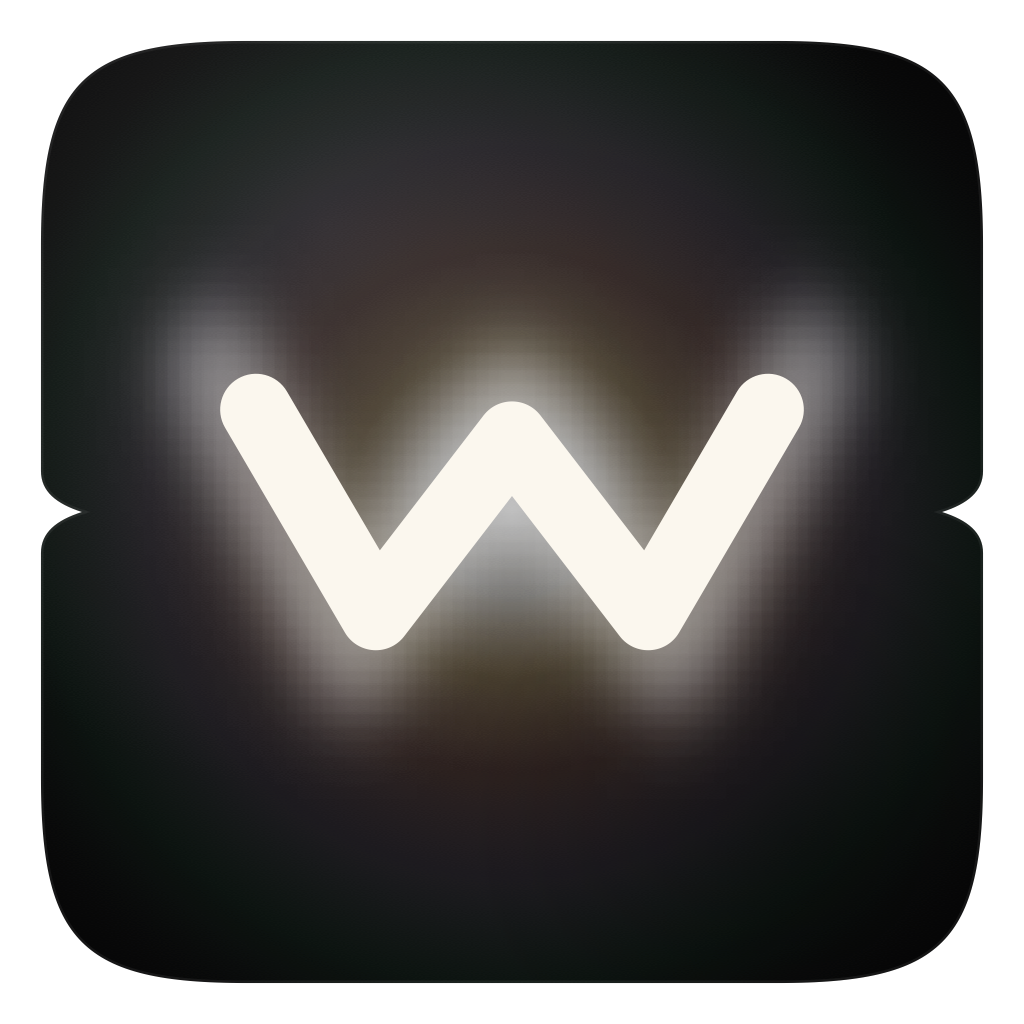
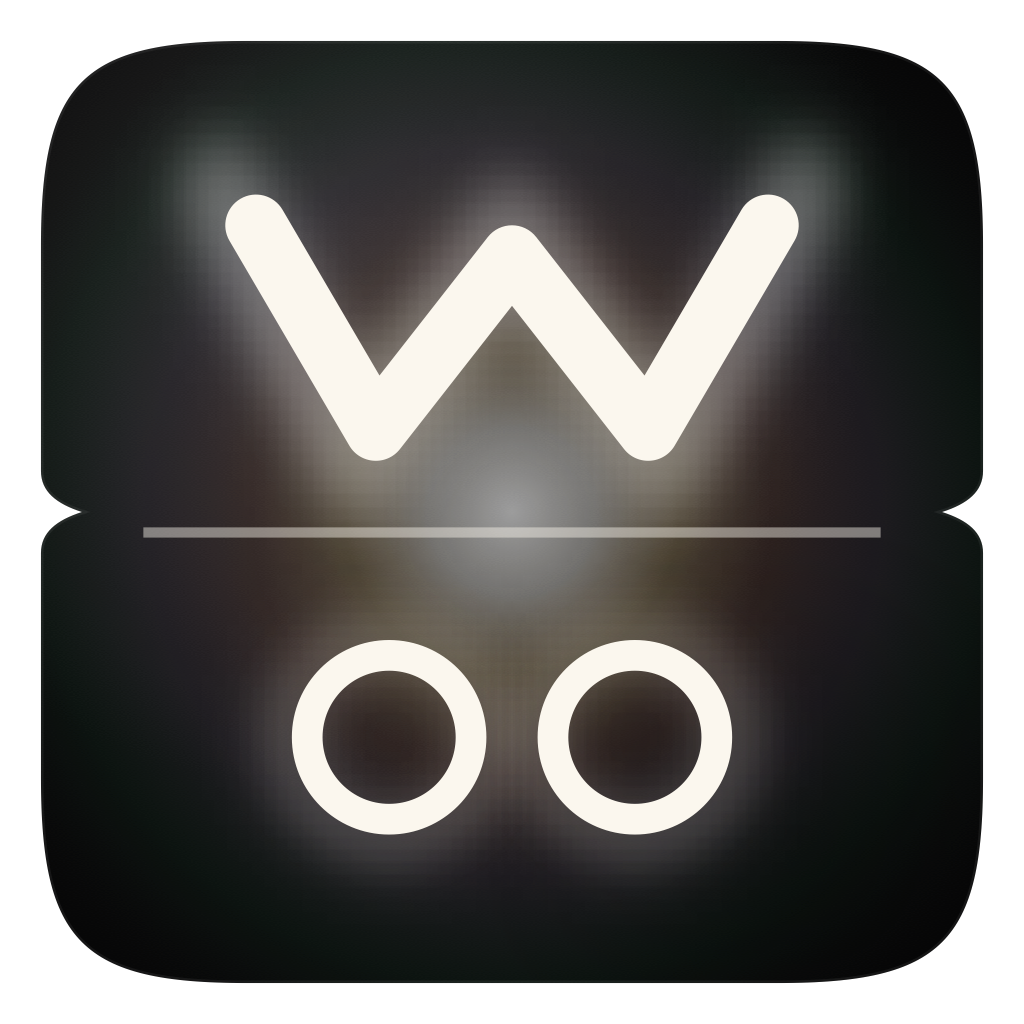
brand: W+oo combined monogram + drop rainbow text effect
Two big changes per user direction:

1. Rainbow gradient on italic em accents removed entirely. The
   gradient wasn't reading visually, made the cut-edge perception
   worse, and the user explicitly said "drop that for now and just
   use the different font". Italic em accents now render in Syne
   italic at the parent heading colour — simpler, cleaner, lets the
   type system carry the brand voice without the loud spectrum.
   Trending-head em colour explicitly set cream (was relying on
   gradient transparency). Services CTA "Work with us" rule cleaned
   up to render in ink, not transparent fill.
   The spectrum lives now only on:
     - Footer hairline (quiet brand signature)
     - Nav active/hover underline (interaction accent)

2. Monogram redesigned as a W+oo combined glyph echoing the
   wordmark's structure:
     - W in the upper half (same letterform geometry as wordmark)
     - Horizon hairline through the middle (the H reference)
     - Two outlined o's in the lower half (the *oo* in WoHoo)
   Reads as a miniature WildWooHoo — same brand letterforms, one
   square mark. Updated:
     - brand-kit/logos/monogram-glow.svg (source of truth)
     - brand-effects.js inline buildMonogram (header live render)
     - favicon.svg / favicon.ico / favicon-16 / favicon-32 / apple-touch
     - brand-kit/logos/png/monogram-glow-* (6 sizes regenerated)
     - brand-kit/social/profile-glow-* (3 sizes regenerated)
   At 32x32 favicon the W+oo composition still reads clearly.
[…]

Changed region(s): [[0.125, 0.125, 0.875, 0.8438]]

diff --git a/brand-effects.js b/brand-effects.js
@@ -187,24 +187,29 @@
         '<rect width="100" height="100" fill="url(#' + sh + ')"/>' +
         // Rainbow rim: hidden at rest, fades in on hover.
         '<rect class="wwh-mono-rim" width="100" height="100" fill="url(#' + rm + ')"/>' +
-        // Mirror W (top + reflected M): hidden at rest, briefly ghost-flashes
-        // on hover before fading back.
+        // W+oo combined glyph (May 2026 redesign): W in upper half,
+        // horizon hairline through middle, two oo circles in lower half.
+        // Reads as a miniature WildWooHoo — same letterforms as the
+        // wordmark, condensed into the square mark.
+        '<g class="wwh-mono-final">' +
+          '<path d="M 25 22 L 36.7 42 L 50 25 L 63.3 42 L 75 22" ' +
+            'stroke="#FBF7EE" stroke-width="6" fill="none" stroke-linecap="round" stroke-linejoin="round"/>' +
+          '<circle cx="38" cy="72" r="8" stroke="#FBF7EE" stroke-width="3" fill="none"/>' +
+          '<circle cx="62" cy="72" r="8" stroke="#FBF7EE" stroke-width="3" fill="none"/>' +
+        '</g>' +
+        // Mirror W (upper) + reflected oo (lower): hidden at rest, ghost-
+        // flash on hover for the rainbow-rim animation.
         '<g class="wwh-mono-top">' +
-          '<path d="M 18 24 L 33 50 L 50 28 L 67 50 L 82 24" ' +
-            'stroke="#FBF7EE" stroke-width="7" fill="none" stroke-linecap="round" stroke-linejoin="round"/>' +
+          '<path d="M 25 12 L 36.7 32 L 50 15 L 63.3 32 L 75 12" ' +
+            'stroke="#FBF7EE" stroke-width="6" fill="none" stroke-linecap="round" stroke-linejoin="round"/>' +
         '</g>' +
         '<g class="wwh-mono-bot">' +
-          '<path d="M 18 76 L 33 50 L 50 72 L 67 50 L 82 76" ' +
-            'stroke="#FBF7EE" stroke-width="7" fill="none" stroke-linecap="round" stroke-linejoin="round"/>' +
-        '</g>' +
-        // Single W (the glow icon\'s W): visible at rest, the anchor of the mark.
-        '<g class="wwh-mono-final">' +
-          '<path d="M 25 40 L 36.7 60 L 50 42.7 L 63.3 60 L 75 40" ' +
-            'stroke="#FBF7EE" stroke-width="7" fill="none" stroke-linecap="round" stroke-linejoin="round"/>' +
+          '<circle cx="38" cy="86" r="6" stroke="#FBF7EE" stroke-width="3" fill="none"/>' +
+          '<circle cx="62" cy="86" r="6" stroke="#FBF7EE" stroke-width="3" fill="none"/>' +
         '</g>' +
         // Horizon hairline: subtle cream at rest, switches to rainbow on hover.
-        '<line class="wwh-mono-horizon-cream" x1="14" y1="50" x2="86" y2="50" stroke="#FBF7EE" stroke-width="0.8" stroke-opacity=".25"/>' +
-        '<line class="wwh-mono-horizon-rain"  x1="14" y1="50" x2="86" y2="50" stroke="url(#' + hr + ')" stroke-width="1.6"/>' +
+        '<line class="wwh-mono-horizon-cream" x1="14" y1="52" x2="86" y2="52" stroke="#FBF7EE" stroke-width="1" stroke-opacity=".45"/>' +
+        '<line class="wwh-mono-horizon-rain"  x1="14" y1="52" x2="86" y2="52" stroke="url(#' + hr + ')" stroke-width="1.8"/>' +
         // White diagonal shine sweep on hover.
         '<rect class="wwh-mono-shine" x="-30" y="-10" width="40" height="120" fill="url(#' + sn + ')" transform="rotate(15 20 50)"/>' +
       '</g>' +

diff --git a/wwh-archive.css b/wwh-archive.css
@@ -428,40 +428,31 @@ body.wwh-awal img { max-width: 100%; display: block; }
    carry a slowly-cycling spectrum gradient instead of single signal-gold.
    Same palette as the logo's hover shine and the CTA rainbow sweep.
    ========================================================================== */
-.wwh-page-band h1 em,
-.wwh-departments h2 em,
-.wwh-highlight-copy h2 em,
-.wwh-trending-head h2 em,
-.wwh-feature-video-head h2 em,
-.wwh-roster-slider-head h2 em,
-.wwh-project h2 em,
-.wwh-services-headline em,
+/* Rainbow gradient on italic em accents removed (May 2026) per user
+   request — wasn't reading visually, made the cut-edge issue worse,
+   and the simpler "italic Syne in the parent colour" lets the type
+   system carry the brand voice without the loud spectrum effect.
+   The rainbow lives now only in the footer hairline as a quiet
+   spectrum signature, and the nav active underline as an interaction
+   accent. */
 .wwh-services-cta h2,
-.wwh-services-cta h2 a,
-.wwh-meet-headline em,
-.wwh-awal-nav a.active,
-.wwh-awal-nav a:hover {
-  /* Looped pure spectrum — the gradient is doubled so background-position
-     can animate continuously left→right without any reversal jump. Each
-     stop a distinct hue, every letter legible on cream or dark surfaces. */
-  background: linear-gradient(90deg,
-    #C97A66 0%, #D89E78 8%, #E5B96D 16%, #27A05B 25%,
-    #B07F30 33%, #9985A8 41%, #7D6E92 50%,
-    #C97A66 50%, #D89E78 58%, #E5B96D 66%, #27A05B 75%,
-    #B07F30 83%, #9985A8 91%, #7D6E92 100%) !important;
-  background-size: 200% 100% !important;
-  -webkit-background-clip: text !important;
-  background-clip: text !important;
-  -webkit-text-fill-color: transparent !important;
-  color: transparent !important;
-  animation: wwhHeaderShine 6s linear infinite;
+.wwh-services-cta h2 a {
+  /* keep these big CTAs in the inherited heading colour, not gradient */
+  background: none !important;
+  background-color: transparent !important;
+  -webkit-background-clip: initial !important;
+  background-clip: initial !important;
+  -webkit-text-fill-color: currentColor !important;
+  color: var(--wwh-ink) !important;
 }
+
+/* Nav active/hover underline keeps a soft spectrum hairline as the only
+   site-wide rainbow accent — small, atmospheric, no longer competing
+   with the headlines. */
 @keyframes wwhHeaderShine {
   0%   { background-position: 0% 50%; }
   100% { background-position: -200% 50%; }
 }
-
-/* Nav active/hover underline - same looped spectrum, continuous flow */
 .wwh-awal-nav a::after {
   background: linear-gradient(90deg,
     #C97A66 0%, #D89E78 8%, #E5B96D 16%, #27A05B 25%,
@@ -2443,8 +2434,8 @@ body.wwh-awal h4 em {
   color: #FBF7EE !important;
 }
 .wwh-trending-head h2 em {
-  /* spectrum gradient already applied via section 1 — keep */
-  color: transparent !important;
+  /* rainbow gradient dropped — em now inherits cream colour from parent */
+  color: #FBF7EE !important;
 }
 .wwh-trend-item.is-quote {
   background: rgba(255,255,255,.04) !important;

diff --git a/index.html b/index.html
@@ -11,15 +11,15 @@
   <link rel="preconnect" href="https://fonts.googleapis.com">
   <link rel="preconnect" href="https://fonts.gstatic.com" crossorigin>
   <link rel="stylesheet" href="https://fonts.googleapis.com/css2?family=Syne:wght@500;600;700;800&family=Comfortaa:wght@400;500;600;700&family=Inter:wght@400;500;600;700&family=Instrument+Serif:ital@0;1&family=Libre+Baskerville:wght@400;700&family=Big+Shoulders+Display:wght@700;800;900&family=Caveat:wght@500;700&family=Montserrat:wght@400;500;700&display=swap">
-  <link rel="stylesheet" href="styles.css?v=20260524c1" />
-  <link rel="stylesheet" href="wwh-archive.css?v=20260524c1" />
+  <link rel="stylesheet" href="styles.css?v=20260524c2" />
+  <link rel="stylesheet" href="wwh-archive.css?v=20260524c2" />
 <!-- BEGIN: SEO-INJECT -->
 <link rel="canonical" href="https://wildwoohoo.com/">
-<link rel="icon" type="image/svg+xml" href="/favicon.svg?v=20260524c1">
-<link rel="icon" type="image/png" sizes="32x32" href="/favicon-32.png?v=20260524c1">
-<link rel="icon" type="image/png" sizes="16x16" href="/favicon-16.png?v=20260524c1">
-<link rel="apple-touch-icon" sizes="180x180" href="/apple-touch-icon.png?v=20260524c1">
-<link rel="shortcut icon" href="/favicon.ico?v=20260524c1">
+<link rel="icon" type="image/svg+xml" href="/favicon.svg?v=20260524c2">
+<link rel="icon" type="image/png" sizes="32x32" href="/favicon-32.png?v=20260524c2">
+<link rel="icon" type="image/png" sizes="16x16" href="/favicon-16.png?v=20260524c2">
+<link rel="apple-touch-icon" sizes="180x180" href="/apple-touch-icon.png?v=20260524c2">
+<link rel="shortcut icon" href="/favicon.ico?v=20260524c2">
 <meta name="theme-color" content="#2B1F2F">
 <meta name="author" content="Dr WELI">
 <meta name="robots" content="index, follow, max-image-preview:large">
@@ -638,9 +638,9 @@
     </div>
   </footer>
 
-  <script src="script.js?v=20260524c1"></script>
-  <script src="wwh-effects.js?v=20260524c1"></script>
-  <script src="brand-effects.js?v=20260524c1"></script>
+  <script src="script.js?v=20260524c2"></script>
+  <script src="wwh-effects.js?v=20260524c2"></script>
+  <script src="brand-effects.js?v=20260524c2"></script>
   <script>
     (function(){ var y = document.getElementById('wwhYear'); if (y) y.textContent = new Date().getFullYear(); })();
   </script>

diff --git a/educational/index.html b/educational/index.html
@@ -11,8 +11,8 @@
   <link rel="preconnect" href="https://fonts.googleapis.com">
   <link rel="preconnect" href="https://fonts.gstatic.com" crossorigin>
   <link rel="stylesheet" href="https://fonts.googleapis.com/css2?family=Syne:wght@500;600;700;800&family=Comfortaa:wght@400;500;600;700&family=Inter:wght@400;500;600;700&family=Instrument+Serif:ital@0;1&family=Libre+Baskerville:wght@400;700&family=Big+Shoulders+Display:wght@700;800;900&family=Caveat:wght@500;700&family=Montserrat:wght@400;500;700&display=swap">
-  <link rel="stylesheet" href="../styles.css?v=20260524c1" />
-  <link rel="stylesheet" href="../wwh-archive.css?v=20260524c1" />
+  <link rel="stylesheet" href="../styles.css?v=20260524c2" />
+  <link rel="stylesheet" href="../wwh-archive.css?v=20260524c2" />
 <!-- BEGIN: SEO-INJECT -->
 <link rel="canonical" href="https://wildwoohoo.com/educational/">
 <link rel="icon" type="image/svg+xml" href="/favicon.svg?v=20260516b">
@@ -377,9 +377,9 @@
     </div>
   </footer>
 
-  <script src="../script.js?v=20260524c1"></script>
-  <script src="../wwh-effects.js?v=20260524c1"></script>
-  <script src="../brand-effects.js?v=20260524c1"></script>
+  <script src="../script.js?v=20260524c2"></script>
+  <script src="../wwh-effects.js?v=20260524c2"></script>
+  <script src="../brand-effects.js?v=20260524c2"></script>
   <script>
     (function(){ var y = document.getElementById('wwhYear'); if (y) y.textContent = new Date().getFullYear(); })();
   </script>

diff --git a/music/index.html b/music/index.html
@@ -11,8 +11,8 @@
   <link rel="preconnect" href="https://fonts.googleapis.com">
   <link rel="preconnect" href="https://fonts.gstatic.com" crossorigin>
   <link rel="stylesheet" href="https://fonts.googleapis.com/css2?family=Syne:wght@500;600;700;800&family=Comfortaa:wght@400;500;600;700&family=Inter:wght@400;500;600;700&family=Instrument+Serif:ital@0;1&family=Libre+Baskerville:wght@400;700&family=Big+Shoulders+Display:wght@700;800;900&family=Caveat:wght@500;700&family=Montserrat:wght@400;500;700&display=swap">
-  <link rel="stylesheet" href="../styles.css?v=20260524c1" />
-  <link rel="stylesheet" href="../wwh-archive.css?v=20260524c1" />
+  <link rel="stylesheet" href="../styles.css?v=20260524c2" />
+  <link rel="stylesheet" href="../wwh-archive.css?v=20260524c2" />
 <!-- BEGIN: SEO-INJECT -->
 <link rel="canonical" href="https://wildwoohoo.com/music/">
 <link rel="icon" type="image/svg+xml" href="/favicon.svg?v=20260516b">
@@ -424,9 +424,9 @@
     </div>
   </footer>
 
-  <script src="../script.js?v=20260524c1"></script>
-  <script src="../wwh-effects.js?v=20260524c1"></script>
-  <script src="../brand-effects.js?v=20260524c1"></script>
+  <script src="../script.js?v=20260524c2"></script>
+  <script src="../wwh-effects.js?v=20260524c2"></script>
+  <script src="../brand-effects.js?v=20260524c2"></script>
   <script>
     (function(){ var y = document.getElementById('wwhYear'); if (y) y.textContent = new Date().getFullYear(); })();
   </script>

diff --git a/open-calls/index.html b/open-calls/index.html
@@ -11,8 +11,8 @@
   <link rel="preconnect" href="https://fonts.googleapis.com">
   <link rel="preconnect" href="https://fonts.gstatic.com" crossorigin>
   <link rel="stylesheet" href="https://fonts.googleapis.com/css2?family=Syne:wght@500;600;700;800&family=Comfortaa:wght@400;500;600;700&family=Inter:wght@400;500;600;700&family=Instrument+Serif:ital@0;1&family=Libre+Baskerville:wght@400;700&family=Big+Shoulders+Display:wght@700;800;900&family=Caveat:wght@500;700&family=Montserrat:wght@400;500;700&display=swap">
-  <link rel="stylesheet" href="../styles.css?v=20260524c1" />
-  <link rel="stylesheet" href="../wwh-archive.css?v=20260524c1" />
+  <link rel="stylesheet" href="../styles.css?v=20260524c2" />
+  <link rel="stylesheet" href="../wwh-archive.css?v=20260524c2" />
 <!-- BEGIN: SEO-INJECT -->
 <link rel="canonical" href="https://wildwoohoo.com/open-calls/">
 <link rel="icon" type="image/svg+xml" href="/favicon.svg?v=20260516b">
@@ -838,8 +838,8 @@
     </div>
   </footer>
 
-  <script src="../wwh-effects.js?v=20260524c1"></script>
-  <script src="../brand-effects.js?v=20260524c1"></script>
+  <script src="../wwh-effects.js?v=20260524c2"></script>
+  <script src="../brand-effects.js?v=20260524c2"></script>
   <script>
     (function(){ var y = document.getElementById('wwhYear'); if (y) y.textContent = new Date().getFullYear(); })();
   </script>

diff --git a/projects/index.html b/projects/index.html
@@ -11,8 +11,8 @@
   <link rel="preconnect" href="https://fonts.googleapis.com">
   <link rel="preconnect" href="https://fonts.gstatic.com" crossorigin>
   <link rel="stylesheet" href="https://fonts.googleapis.com/css2?family=Syne:wght@500;600;700;800&family=Comfortaa:wght@400;500;600;700&family=Inter:wght@400;500;600;700&family=Instrument+Serif:ital@0;1&family=Libre+Baskerville:wght@400;700&family=Big+Shoulders+Display:wght@700;800;900&family=Caveat:wght@500;700&family=Montserrat:wght@400;500;700&display=swap">
-  <link rel="stylesheet" href="../styles.css?v=20260524c1" />
-  <link rel="stylesheet" href="../wwh-archive.css?v=20260524c1" />
+  <link rel="stylesheet" href="../styles.css?v=20260524c2" />
+  <link rel="stylesheet" href="../wwh-archive.css?v=20260524c2" />
 <!-- BEGIN: SEO-INJECT -->
 <link rel="canonical" href="https://wildwoohoo.com/projects/">
 <link rel="icon" type="image/svg+xml" href="/favicon.svg?v=20260516b">
@@ -722,8 +722,8 @@
     </div>
   </footer>
 
-  <script src="../wwh-effects.js?v=20260524c1"></script>
-  <script src="../brand-effects.js?v=20260524c1"></script>
+  <script src="../wwh-effects.js?v=20260524c2"></script>
+  <script src="../brand-effects.js?v=20260524c2"></script>
   <script>
     (function(){ var y = document.getElementById('wwhYear'); if (y) y.textContent = new Date().getFullYear(); })();
   </script>

diff --git a/impact/index.html b/impact/index.html
@@ -11,8 +11,8 @@
   <link rel="preconnect" href="https://fonts.googleapis.com">
   <link rel="preconnect" href="https://fonts.gstatic.com" crossorigin>
   <link rel="stylesheet" href="https://fonts.googleapis.com/css2?family=Syne:wght@500;600;700;800&family=Comfortaa:wght@400;500;600;700&family=Inter:wght@400;500;600;700&family=Instrument+Serif:ital@0;1&family=Libre+Baskerville:wght@400;700&family=Big+Shoulders+Display:wght@700;800;900&family=Caveat:wght@500;700&family=Montserrat:wght@400;500;700&display=swap">
-  <link rel="stylesheet" href="../styles.css?v=20260524c1" />
-  <link rel="stylesheet" href="../wwh-archive.css?v=20260524c1" />
+  <link rel="stylesheet" href="../styles.css?v=20260524c2" />
+  <link rel="stylesheet" href="../wwh-archive.css?v=20260524c2" />
 <!-- BEGIN: SEO-INJECT -->
 <link rel="canonical" href="https://wildwoohoo.com/impact/">
 <link rel="icon" type="image/svg+xml" href="/favicon.svg?v=20260516b">
@@ -342,8 +342,8 @@
     </div>
   </footer>
 
-  <script src="../wwh-effects.js?v=20260524c1"></script>
-  <script src="../brand-effects.js?v=20260524c1"></script>
+  <script src="../wwh-effects.js?v=20260524c2"></script>
+  <script src="../brand-effects.js?v=20260524c2"></script>
   <script>
     (function(){ var y = document.getElementById('wwhYear'); if (y) y.textContent = new Date().getFullYear(); })();
   </script>

diff --git a/portal/index.html b/portal/index.html
@@ -12,8 +12,8 @@
   <link rel="preconnect" href="https://fonts.googleapis.com">
   <link rel="preconnect" href="https://fonts.gstatic.com" crossorigin>
   <link rel="stylesheet" href="https://fonts.googleapis.com/css2?family=Syne:wght@500;600;700;800&family=Comfortaa:wght@400;500;600;700&family=Inter:wght@400;500;600;700&family=Instrument+Serif:ital@0;1&family=Libre+Baskerville:wght@400;700&family=Big+Shoulders+Display:wght@700;800;900&family=Caveat:wght@500;700&family=Montserrat:wght@400;500;700&display=swap">
-  <link rel="stylesheet" href="../styles.css?v=20260524c1" />
-  <link rel="stylesheet" href="../wwh-archive.css?v=20260524c1" />
+  <link rel="stylesheet" href="../styles.css?v=20260524c2" />
+  <link rel="stylesheet" href="../wwh-archive.css?v=20260524c2" />
 <!-- BEGIN: SEO-INJECT -->
 <link rel="canonical" href="https://wildwoohoo.com/portal/">
 <link rel="icon" type="image/svg+xml" href="/favicon.svg?v=20260516b">
@@ -203,8 +203,8 @@
     </div>
   </footer>
 
-  <script src="../wwh-effects.js?v=20260524c1"></script>
-  <script src="../brand-effects.js?v=20260524c1"></script>
+  <script src="../wwh-effects.js?v=20260524c2"></script>
+  <script src="../brand-effects.js?v=20260524c2"></script>
   <script>
     (function(){ var y = document.getElementById('wwhYear'); if (y) y.textContent = new Date().getFullYear(); })();
   </script>

diff --git a/brand-kit/index.html b/brand-kit/index.html
@@ -8,8 +8,8 @@
 <link rel="preconnect" href="https://fonts.googleapis.com">
 <link rel="preconnect" href="https://fonts.gstatic.com" crossorigin>
 <link rel="stylesheet" href="https://fonts.googleapis.com/css2?family=Syne:wght@500;600;700;800&family=Comfortaa:wght@400;500;600;700&family=Inter:wght@400;500;600;700&family=Instrument+Serif:ital@0;1&family=Libre+Baskerville:wght@400;700&family=Big+Shoulders+Display:wght@700;800;900&family=Caveat:wght@500;700&family=Montserrat:wght@400;500;600;700&display=swap">
-<link rel="icon" type="image/svg+xml" href="../favicon.svg?v=20260524c1">
-<link rel="apple-touch-icon" sizes="180x180" href="../apple-touch-icon.png?v=20260524c1">
+<link rel="icon" type="image/svg+xml" href="../favicon.svg?v=20260524c2">
+<link rel="apple-touch-icon" sizes="180x180" href="../apple-touch-icon.png?v=20260524c2">
 <style>
   :root{
     --cream:#FBF7EE; --paper:#FFFFFF; --sand:#F4ECDD;
